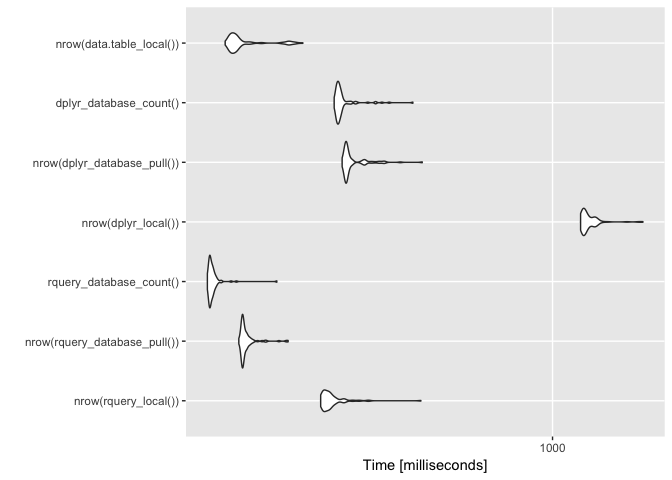
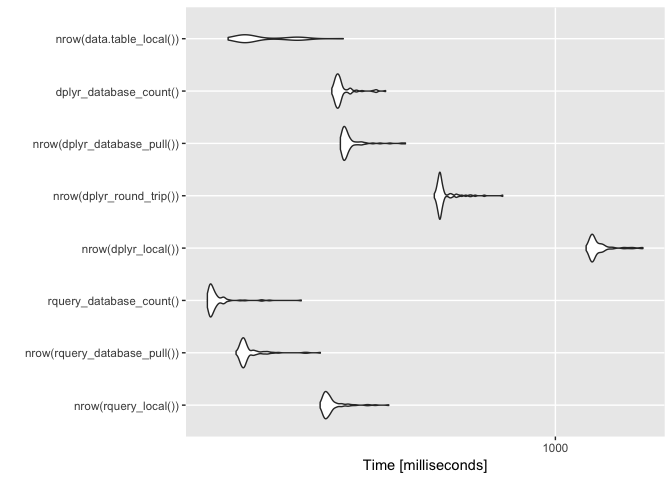
Add dplyr round trip timings

diff --git a/extras/QTiming.md b/extras/QTiming.md
@@ -177,6 +177,18 @@ dplyr_local <- function() {
     dplyr_pipeline
 }
 
+dplyr_round_trip <- function() {
+  dTmp <- dplyr::copy_to(db, dLocal, "dplyr_tmp",
+                         # overwrite = TRUE,
+                         temporary = TRUE
+                         )
+  res <- dTmp %>% 
+    dplyr_pipeline %>%
+    collect()
+  dplyr::db_drop_table(db, "dplyr_tmp")
+  res
+}
+
 dplyr_database_pull <- function() {
   dTbl %>% 
     dplyr_pipeline %>%
@@ -305,6 +317,7 @@ tm <- microbenchmark(
   nrow(rquery_database_pull()),
   rquery_database_count(),
   nrow(dplyr_local()),
+  nrow(dplyr_round_trip()),
   nrow(dplyr_database_pull()),
   dplyr_database_count(),
   nrow(data.table_local())
@@ -315,21 +328,23 @@ print(tm)
 
     ## Unit: milliseconds
     ##                          expr       min        lq      mean    median
-    ##          nrow(rquery_local())  342.2402  347.6063  360.5564  354.2437
-    ##  nrow(rquery_database_pull())  234.4064  238.1877  242.5422  239.1950
-    ##       rquery_database_count()  202.6709  204.5242  207.7822  205.9777
-    ##           nrow(dplyr_local()) 1138.5136 1151.6660 1184.0101 1161.7648
-    ##   nrow(dplyr_database_pull())  377.9763  384.2265  397.9107  385.9140
-    ##        dplyr_database_count()  364.3134  369.1134  378.9403  372.3799
-    ##      nrow(data.table_local())  220.0828  226.5959  240.8028  230.9515
+    ##          nrow(rquery_local())  337.2405  344.5674  355.1654  348.8562
+    ##  nrow(rquery_database_pull())  228.6788  234.6082  242.9893  237.3575
+    ##       rquery_database_count()  200.2667  202.9156  209.4105  205.1442
+    ##           nrow(dplyr_local()) 1152.7496 1180.8069 1217.5715 1192.1386
+    ##      nrow(dplyr_round_trip())  571.5436  583.5926  597.5366  587.5621
+    ##   nrow(dplyr_database_pull())  370.2830  375.6542  385.9769  379.8664
+    ##        dplyr_database_count()  355.9304  362.9655  372.4483  366.9658
+    ##      nrow(data.table_local())  220.4467  236.4563  259.3759  242.1348
     ##         uq       max neval
-    ##   361.7870  543.9606   100
-    ##   243.0044  294.4359   100
-    ##   208.1822  279.4446   100
-    ##  1205.4690 1518.8667   100
-    ##   395.7561  547.4420   100
-    ##   376.7639  524.2173   100
-    ##   236.9222  315.1740   100
+    ##   356.1518  462.9935   100
+    ##   242.2643  337.5072   100
+    ##   209.1377  309.0142   100
+    ##  1228.1974 1498.4659   100
+    ##   594.2685  783.9291   100
+    ##   386.2082  500.1132   100
+    ##   371.9168  456.3380   100
+    ##   296.5508  375.2274   100
 
 ``` r
 autoplot(tm)
@@ -347,6 +362,7 @@ tb <- benchmark(
   rquery_database_pull = { nrow(rquery_database_pull()) },
   rquery_database_count = { rquery_database_count() },
   dplyr_local = { nrow(dplyr_local()) },
+  dplyr_round_trip = { nrow(dplyr_round_trip()) },
   dplyr_database_pull = { nrow(dplyr_database_pull()) },
   dplyr_database_count = { dplyr_database_count() },
   data.table_local = { nrow(data.table_local()) }
@@ -356,15 +372,16 @@ knitr::kable(tb)
 
 |     | test                    |  replications|  elapsed|  relative|  user.self|  sys.self|  user.child|  sys.child|
 |-----|:------------------------|-------------:|--------:|---------:|----------:|---------:|-----------:|----------:|
-| 7   | data.table\_local       |           100|   24.749|     1.195|     24.333|     0.365|           0|          0|
-| 6   | dplyr\_database\_count  |           100|   37.315|     1.801|     12.088|     0.049|           0|          0|
-| 5   | dplyr\_database\_pull   |           100|   39.237|     1.894|     12.617|     0.280|           0|          0|
-| 4   | dplyr\_local            |           100|  117.066|     5.651|    115.968|     0.780|           0|          0|
-| 3   | rquery\_database\_count |           100|   20.716|     1.000|      1.990|     0.016|           0|          0|
-| 2   | rquery\_database\_pull  |           100|   24.163|     1.166|      4.332|     0.221|           0|          0|
-| 1   | rquery\_local           |           100|   36.048|     1.740|     12.880|     0.578|           0|          0|
+| 8   | data.table\_local       |           100|   25.549|     1.244|     25.094|     0.349|           0|          0|
+| 7   | dplyr\_database\_count  |           100|   36.808|     1.792|     11.848|     0.040|           0|          0|
+| 6   | dplyr\_database\_pull   |           100|   38.242|     1.862|     12.288|     0.252|           0|          0|
+| 4   | dplyr\_local            |           100|  119.885|     5.838|    119.038|     0.684|           0|          0|
+| 5   | dplyr\_round\_trip      |           100|   58.940|     2.870|     21.162|     0.600|           0|          0|
+| 3   | rquery\_database\_count |           100|   20.536|     1.000|      1.925|     0.014|           0|          0|
+| 2   | rquery\_database\_pull  |           100|   24.556|     1.196|      4.355|     0.235|           0|          0|
+| 1   | rquery\_local           |           100|   35.574|     1.732|     12.815|     0.571|           0|          0|
 
-And that is it. `rquery` isn't slow, even on local data!
+And that is it. `rquery` shows competitive performance.
 
 ``` r
 winvector_temp_db_handle <- NULL
